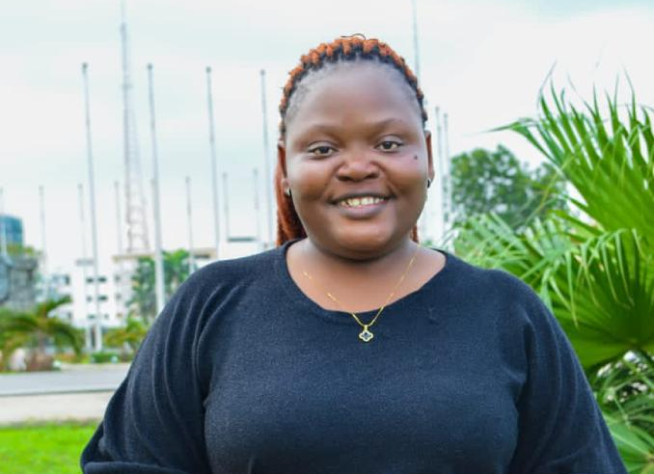
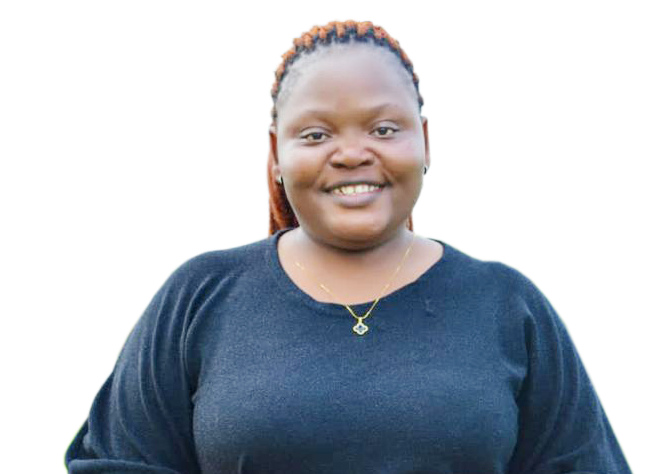
updated adeola picture

diff --git a/pages/key-facts.tsx b/pages/key-facts.tsx
@@ -1,0 +1,118 @@
+import { NextPage } from 'next';
+import Image from 'next/image';
+import styles from '../styles/key-facts.module.scss';
+import { FaAngleDown, FaCheck } from 'react-icons/fa';
+import Layout from '../components/layout/layout';
+import Navigation from '../components/nav';
+import Footer from '../components/Footer';
+import Link from 'next/link';
+
+const data = {
+    'what we ask': [
+        'Commit to a three year contract',
+        'Commit to learning and flexibility',
+        '3 months on-site training in Ekiti',
+        '9 months apprenticeship  (remote/on/site mix)',
+        '24 months internship  (remote/on/site mix)'
+    ],
+    'what we offer': [
+        { title: 'Employment', content: 'You are employed from day 1', width: 40, height: 73.54 },
+        { title: 'Training', content: 'Equipments and Training', width: 56, height: 50.11 },
+        { title: 'Bonus', content: 'No cap on how much you can earn with bonuses', width: 56, height: 55.8 },
+        { title: 'Earning', content: 'You start earning from N50,000 per month', width: 56, height: 56.01 }
+    ]
+}
+
+const KeyFacts: NextPage = () => {
+
+    const getImageSrc = (title: string) => {
+        return `/images/key-facts/${title.toLowerCase()}.png`
+    }
+
+    return (
+        <>
+            <Layout head pageTitle='Key Facts'>
+                <Navigation />
+                <div className="container-fluid p-0">
+                    <section className="container row py-md-5 my-md-3 px-md-5 justify-content-between align-items-center mx-auto">
+                        <div className={`col-sm-6 col-lg-7 ${styles.welcomeText}`}>
+                            <h1>Welcome to</h1>
+                            <h1 className={styles.universityText}>Alluvium University</h1>
+                            <p>Lorem ipsum dolor sit amet, consectetuer adipiscing elit. Aenean commodo ligula eget dolor. Aenean massa. Cum sociis natoque penatibus et magnis dis parturient montes, nascetur ridiculus mus. </p>
+                            <button className={`btn ${styles.getStarted}`}>Get Started</button>
+                        </div>
+                        <div className="col-sm-6 col-lg-4 justify-content-right">
+                            <Image
+                                src="/images/key-facts/welcome.png"
+                                width={469}
+                                height={579}
+                                alt='welcome'
+                                loading='eager'
+                                priority />
+                        </div>
+                        <div className={`${styles.downcaret} col-12 text-center mt-5`}>
+                                <a href='#message' title='next section'><FaAngleDown /></a>
+                        </div>
+                    </section>
+                    <section id='message' className="container-fluid text-center p-md-5 text-white" style={{ background: '#132230' }}>
+                        <div className={`${styles.messagebox} my-5 px-md-5`}>
+                            <h2 className='mx-md-5 px-md-5 mb-4'>You are Officially Welcomed to Alluvium University</h2>
+                            <p>Lorem ipsum dolor sit amet, consectetuer adipiscing elit. Aenean commodo ligula eget dolor. Aenean massa. Cum sociis natoque penatibus et magnis dis parturient montes, nascetur ridiculus mus. Donec quam felis, ultricies nec, pellentesque eu, pretium quis, sem. Nulla consequat massa quis enim. Donec pede justo, fringilla vel, aliquet nec, vulputate eget, arcu. In enim justo. Lorem ipsum dolor sit amet, consectetuer adipiscing elit. Aenean commodo ligula eget dolor. Aenean massa.</p>
+                        </div>
+                    </section>
+                    <section className={styles.whatweask}>
+                        <div className={`row align-items-center my-5 py-5`}>
+                            <div className="col-md-6">
+                                <Image
+                                    src="/images/key-facts/whatweask.png"
+                                    width={634}
+                                    height={409}
+                                    alt='what we ask'
+                                    loading='eager'
+                                    priority />
+                            </div>
+                            <div className="col-md-6 ps-5">
+                                <h2>What <span>we</span> ask:</h2>
+                                {
+                                    data['what we ask'].map((value, index) =>
+                                        <div className="row p-0" key={index}>
+                                            <div className={`${styles.check} col-2 col-sm-1 text-end`}>
+                                                <FaCheck />
+                                            </div>
+                                            <div className="col-10 col-sm-11 p-0">{value}</div>
+                                        </div>
+                                    )
+                                }
+                            </div>
+                        </div>
+                        <div className="container text-center my-5 py-5">
+                            <h2>What <span>you</span> get</h2>
+                            <div className="row">
+                                {
+                                    data['what we offer'].map((value, index) =>
+                                        <div className="col-md-3" key={index}>
+                                            <div style={{ height: '80px', display: 'flex', alignItems: 'center', justifyContent: 'center' }}>
+                                                <Image
+                                                    src={getImageSrc(value.title)}
+                                                    width={value.width}
+                                                    height={value.height}
+                                                    alt='what we ask'
+                                                    loading='eager'
+                                                    priority />
+                                            </div>
+                                            <h3>{value.title}</h3>
+                                            <p>{value.content}</p>
+                                        </div>
+                                    )
+                                }
+                            </div>
+                        </div>
+                    </section>
+                </div>
+                <Footer />
+            </Layout>
+        </>
+    )
+}
+
+export default KeyFacts;

diff --git a/styles/key-facts.module.scss b/styles/key-facts.module.scss
@@ -1,0 +1,51 @@
+.welcomeText {
+    h1 {
+        // font-family: 'Montserrat';
+        font-style: normal;
+        font-weight: 800;
+        font-size: 55px;
+        // line-height: 160%;
+        color: #132230;
+    }
+
+    .universityText {
+        color: #009BC0;
+    }
+
+    .getStarted {
+        background: #009BC0;
+        border-radius: 5px;
+        color: white;
+    }
+}
+
+.downcaret{
+    color: #009BC0;
+    font-size: xx-large;
+}
+
+.messagebox{
+    width: 80%;
+    margin: 0 auto;
+}
+
+.whatweask {
+    width: 80%;
+    margin: 0 auto;
+
+    h2 {
+        font-style: normal;
+        font-weight: 700;
+        font-size: 32px;
+        line-height: 150%;
+        color: #3D3D3D;
+
+        span{
+            color: #009BC0;
+        }
+    }
+    
+    .check{
+        color: #009BC0;
+    }
+}

diff --git a/styles/globals.css b/styles/globals.css
@@ -156,6 +156,7 @@ a {
 .testimonial-img{
 	position: absolute;
 	top: 27px;
+	background-color: white;
 	right: -100px;
 	z-index: 9;
 	min-height: 350px;
@@ -165,6 +166,7 @@ a {
 	background-repeat: no-repeat;
 	background-size: cover;
 	background-position: center;
+	border: 20px solid black;
 }
 
 .testimonial .testimonial-img .svg{
